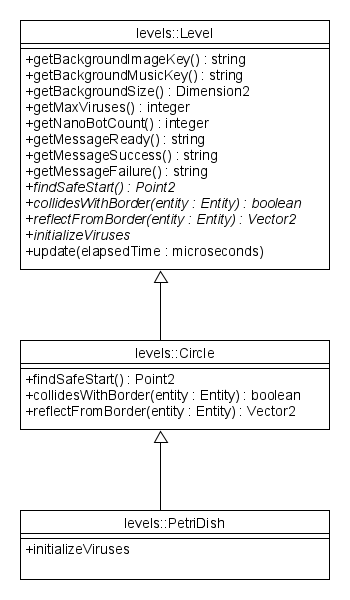
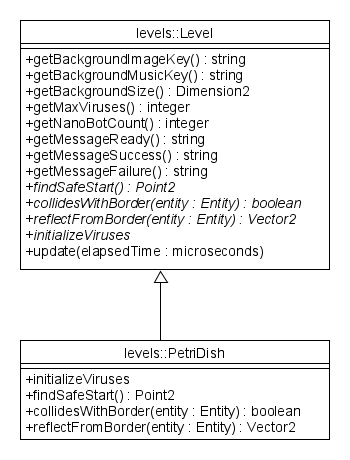
A little more work on the levels writeup

Changed region(s): [[0.0571, 0.0304, 0.9429, 0.9739]]

diff --git a/docs/Levels.md b/docs/Levels.md
@@ -1,5 +1,15 @@
 # Levels
 
+A level is the game play environment in which the game takes place.  This includes things like the background image, what music to play (if enabled), max number of viruses, various messages that can appear, finding a safe starting position for the player, along with a few other things.  When I started the game I had grander visions (doesn't everyone) for what the levels would be like.  Originally I planed to have levels much larger than a single screen in which a player would navigate around and clean out the viruses.  Because this is something I do in my spare time for _fun_, I quickly realized I wasn't going to have the time to meet my original vision, at least in the time-frame I set aside to work on this game.
+
+While working on the documentation, I decided to take the time to reduce some of the unnecessary complexity I had in the code from my original _grand_ design.  The code is now more simplified than it was at the time of release.  The code I revised wasn't that much more complicated, it just had more separation of duties into several classes that isn't necessary with the current simple level design.
+
 The following diagram provides an overview of levels in this code.
 
 ![Levels Diagram](https://github.com/ProfPorkins/Coronavirus-NanoForce/blob/trunk/docs/images/Levels.png)
+
+## Arena Boundary
+
+## Emitting Powerups
+
+## Safe Starting Location
